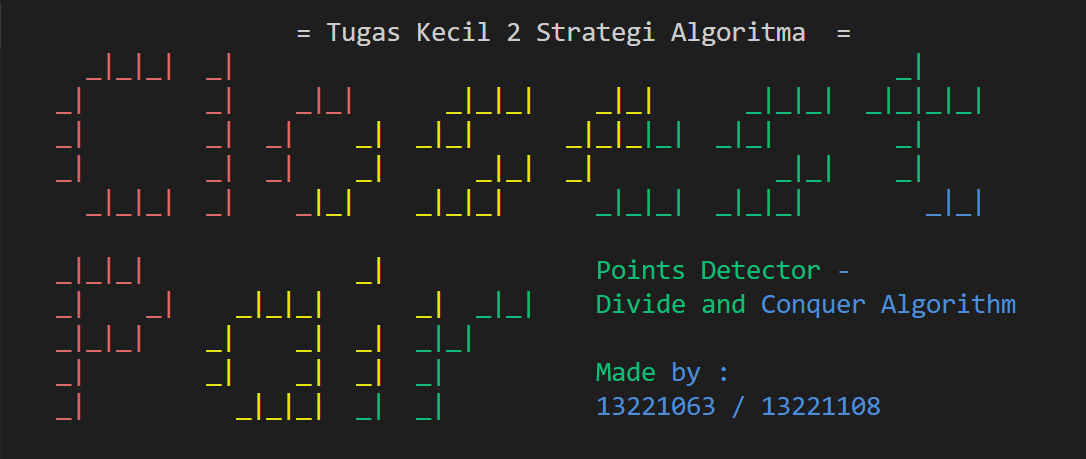
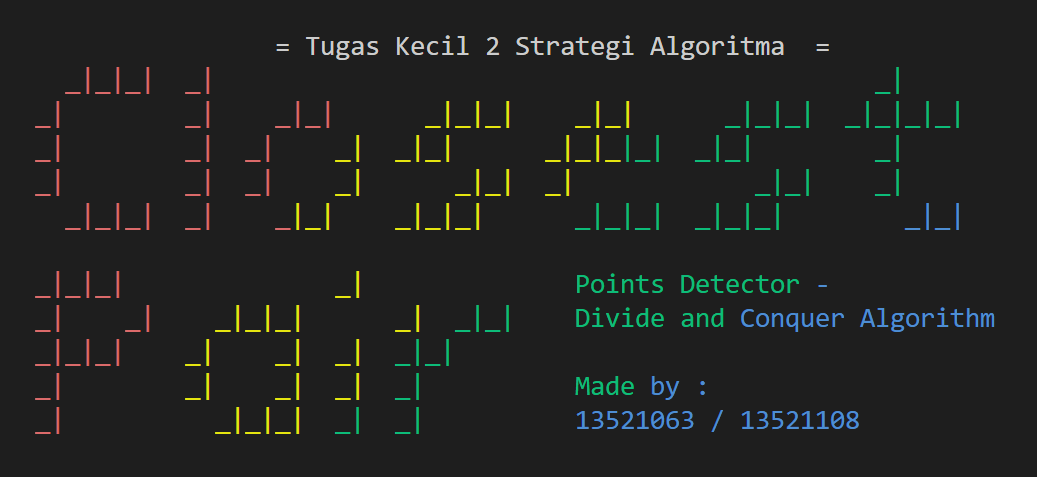
FINAL COMMIT FIX
FINAL COMMIT FIX

diff --git a/src/main.py b/src/main.py
@@ -21,7 +21,7 @@ print('''
 \033[31m _|    _|  \033[33m  _|_|_|      _|\033[32m  _|_|    Divide and \033[34mConquer Algorithm
 \033[31m _|_|_|  \033[33m  _|    _|  _|  \033[32m_|_|                 \033[34m
 \033[31m _|     \033[33m   _|    _|  _|\033[32m  _|          Made \033[34mby :
-\033[31m _|  \033[33m        _|_|_| \033[32m _|  _|          \033[34m13221063 / 13221108 
+\033[31m _|  \033[33m        _|_|_| \033[32m _|  _|          \033[34m13521063 / 13521108 
 \033[0m      ''')
 
 # Tampilan pilihan menu
